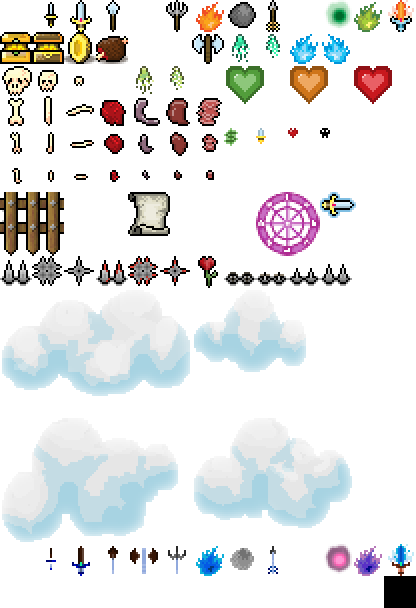
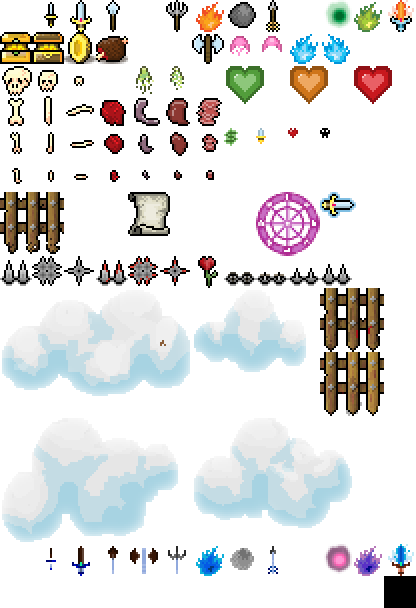
BOOYA: fixes #145 #146 #147 #148 #150 (not happy with that one tho) #151 #156

diff --git a/htdocs/js/engine.js b/htdocs/js/engine.js
@@ -294,7 +294,7 @@ proto.initSound = function horde_Engine_proto_initSound () {
 		s.create("spike_attack", "sound/effects/spike_attacks");
 		
 		// Hero
-		s.create("coins", "sound/effects/chest_gold", false, 20);
+		s.create("coins", "sound/effects/chest_gold", false, 10);
 		s.create("eat_food", "sound/effects/eat_food", false, 20);
 		s.create("fire_attack", "sound/effects/char_attacks_fire");
 		s.create("hero_attacks", "sound/effects/char_attacks");
@@ -495,9 +495,11 @@ proto.initWaves = function horde_Engine_proto_initWaves () {
 	};
 	
 	// Wave testing code...
-	var testWave = 40;
+	/*
+	var testWave = 50;
 	this.waveHack = true;
 	this.currentWaveId = (testWave - 2);
+	*/
 
 	/*
 	// Test Wave
@@ -3690,9 +3692,18 @@ proto.drawIntroCinematic = function horde_Engine_proto_drawIntroCinematic (ctx) 
  */
 proto.drawFauxGates = function horde_Engine_proto_drawFauxGates (ctx) {
 	for (var g = 0; g < NUM_GATES; g++) {
+		var spriteX = 0;
+		var spriteY = 192;
+
+		if (g > 0) {
+			spriteX = 320;
+			spriteY = ((g == 1) ? 288 : 352);
+		}
+
 		ctx.drawImage(
 			this.images.getImage("objects"),
-			0, 192, 64, 64, this.gatesX + 96 + (g * 192), this.gatesY, 64, 64
+			spriteX, spriteY, 64, 64,
+			(this.gatesX + 96 + (g * 192)), this.gatesY, 64, 64
 		);
 	}
 };
